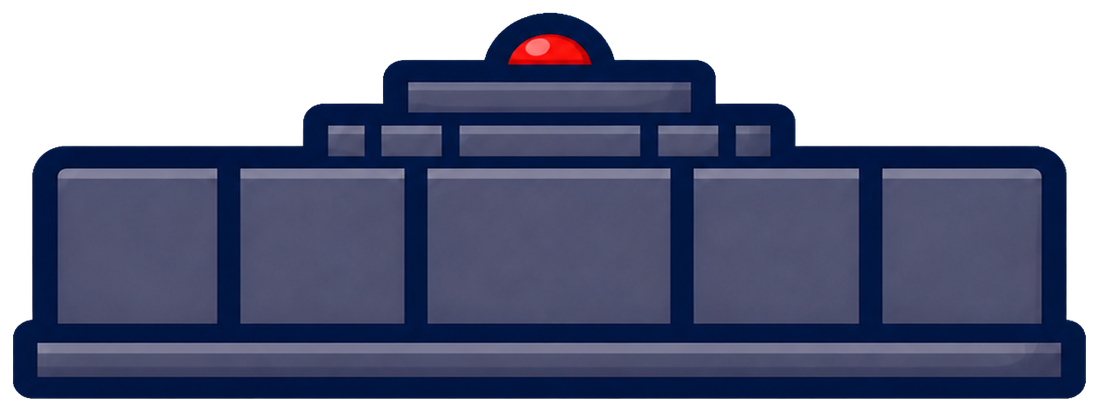
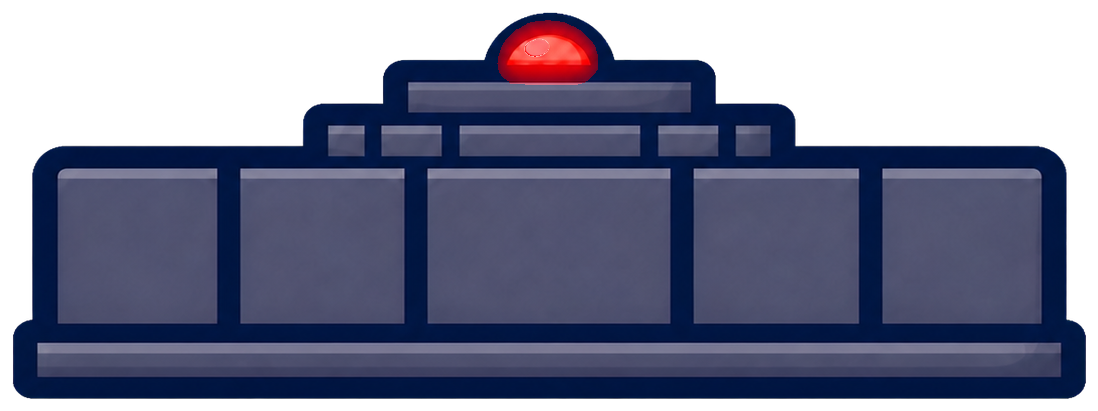
Refresh mine warning artwork

Changed region(s): [[0.4335, 0.0292, 0.5574, 0.2044]]

diff --git a/tools/organize_character_art.py b/tools/organize_character_art.py
@@ -19,7 +19,7 @@ ATLAS_DIR = ROOT / "assets" / "characters" / "atlas"
 BATTER_BLACK_DIR = SOURCE_DIR / "batter-black-final"
 FLYER_GRAY_DIR = SOURCE_DIR / "flyer-gray-final"
 SIXTH_GEN_JET = SOURCE_DIR / "sixth-gen-jet-original.png"
-MINE_SOURCE = SOURCE_DIR / "mine-bold-lines-aligned.png"
+MINE_SOURCE = SOURCE_DIR / "mine-red-glow-v1.png"
 UFO_LIGHTS_OFF_SOURCE = ROOT / "assets" / "concepts" / "ufo-lights-off-review-v1.png"
 UFO_LIGHTS_ON_SOURCE = ROOT / "assets" / "concepts" / "ufo-lights-on-review-v1.png"
 UFO_PICKUP_SOURCE = ROOT / "assets" / "concepts" / "ufo-pickup-review-v3.png"
